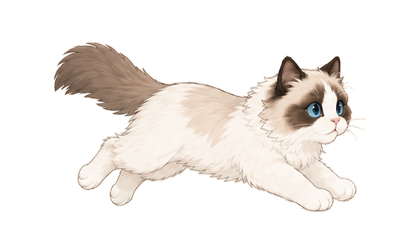
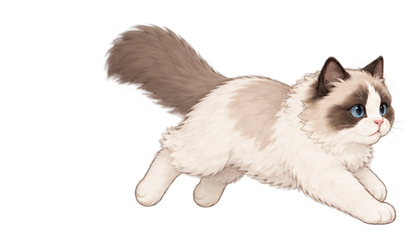
feat: personalize Fanqie sprites and add resting states

diff --git a/assets/preview.html b/assets/preview.html
@@ -1,0 +1,67 @@
+<!doctype html>
+<html lang="zh-CN">
+<meta charset="utf-8">
+<meta name="viewport" content="width=device-width, initial-scale=1">
+<title>番茄 · Ragdoll Progress</title>
+<link rel="stylesheet" href="../src/content.css">
+<style>
+  * { box-sizing: border-box; }
+  body { margin: 0; padding: 64px 28px; background: #f5f2ec; color: #40372f; font: 16px/1.6 system-ui, sans-serif; }
+  main { max-width: 960px; margin: auto; }
+  h1 { font-size: 32px; margin: 0 0 8px; }
+  p { color: #74685c; margin: 0 0 32px; }
+  .states { display: grid; grid-template-columns: repeat(3, 1fr); gap: 20px; }
+  .card { border: 1px solid #dfd7cc; background: #fffdf9; border-radius: 20px; padding: 24px; }
+  .card.dark { background: #282625; color: #f5eee4; border-color: #282625; }
+  h2 { font-size: 15px; font-weight: 500; margin: 0; }
+  .stage { height: 160px; display: grid; align-items: end; padding-bottom: 24px; }
+  .track { position: relative; height: 4px; background: #d7b8a0; border-radius: 4px; }
+  .dcb-cat-progress { --dcb-cat-sprite: url('../assets/cat-sprite.png'); --dcb-progress: .5; filter: none; }
+  .large { margin-top: 24px; }
+  .large .stage { height: 220px; }
+  .large .dcb-cat-progress { --dcb-runner-width: 252px; --dcb-runner-height: 141px; }
+  .large .track { margin: 0 120px; }
+  .controls { display: flex; align-items: center; gap: 16px; margin-top: 24px; }
+  button { color: inherit; background: #eee2d5; border: 0; border-radius: 30px; padding: 10px 20px; font: inherit; cursor: pointer; }
+  input { flex: 1; accent-color: #9a6e51; min-width: 0; }
+  small { color: #8c7f71; display: block; margin-top: 24px; }
+  @media(max-width: 650px) { .states { grid-template-columns: 1fr; } .large .track { margin: 0 112px; } }
+</style>
+<main>
+  <h1>番茄，陪你看到最后。</h1>
+  <p>播放时小跑，暂停时趴好，结束后安心睡觉。</p>
+  <div class="states">
+    <section class="card"><h2>播放 · 小跑</h2><div class="stage"><div class="track"><div class="dcb-cat-progress"><div class="dcb-runner"></div></div></div></div></section>
+    <section class="card"><h2>暂停 · 趴卧</h2><div class="stage"><div class="track"><div class="dcb-cat-progress dcb-paused"><div class="dcb-runner"></div></div></div></div></section>
+    <section class="card dark"><h2>结束 · 睡觉</h2><div class="stage"><div class="track"><div class="dcb-cat-progress dcb-ended"><div class="dcb-runner"></div></div></div></div></section>
+  </div>
+  <section class="card large">
+    <h2>放大看看</h2>
+    <div class="stage"><div class="track"><div id="interactive" class="dcb-cat-progress"><div class="dcb-runner"></div></div></div></div>
+    <div class="controls"><button id="toggle" type="button" aria-pressed="false">暂停</button><input id="progress" type="range" min="0" max="100" value="50" aria-label="播放进度"><button id="end" type="button">看完啦</button></div>
+  </section>
+  <small>上排为扩展实际尺寸，下方为三倍预览。系统开启“减少动态效果”时，小猫会安静趴着。</small>
+</main>
+<script>
+  const cat = document.querySelector('#interactive');
+  const toggle = document.querySelector('#toggle');
+  const progress = document.querySelector('#progress');
+  toggle.onclick = () => {
+    cat.classList.remove('dcb-ended');
+    const paused = cat.classList.toggle('dcb-paused');
+    toggle.textContent = paused ? '继续播放' : '暂停';
+    toggle.setAttribute('aria-pressed', String(paused));
+  };
+  progress.oninput = () => {
+    cat.style.setProperty('--dcb-progress', progress.value / 100);
+    cat.classList.remove('dcb-ended');
+  };
+  document.querySelector('#end').onclick = () => {
+    cat.classList.add('dcb-ended', 'dcb-paused');
+    cat.style.setProperty('--dcb-progress', 1);
+    progress.value = 100;
+    toggle.textContent = '继续播放';
+    toggle.setAttribute('aria-pressed', 'true');
+  };
+</script>
+</html>

diff --git a/tests/content.browser.js b/tests/content.browser.js
@@ -58,6 +58,7 @@
   }
   const layer = (target = fixture) => target.progressContainer.querySelector('.dcb-cat-progress');
   const progress = () => Number(layer().style.getPropertyValue('--dcb-progress'));
+  const runnerStyle = () => getComputedStyle(layer().querySelector('.dcb-runner'));
   const fillTo = (index, ratio, target = fixture) => {
     target.fills[index].style.transform = `scaleX(${ratio})`;
   };
@@ -124,6 +125,8 @@
     await tick();
     equal(frames.size, 0);
     assert(layer().classList.contains('dcb-paused'), 'pause class missing');
+    equal(runnerStyle().animationName, 'none');
+    equal(runnerStyle().backgroundPositionX, '-504px');
     await tick();
     equal(frames.size, 0);
   });
@@ -136,10 +139,14 @@
     await tick();
     equal(frames.size, 1);
     assert(!layer().classList.contains('dcb-paused'), 'pause class remained');
+    equal(runnerStyle().animationName, 'dcb-run');
+    equal(runnerStyle().backgroundSize, '800% 100%');
     fixture.state.paused = true;
     fixture.video.dispatchEvent(new Event('pause'));
     await tick();
     equal(frames.size, 0);
+    equal(runnerStyle().animationName, 'none');
+    equal(runnerStyle().backgroundPositionX, '-504px');
   });
   await test('paused native slider mutations update without media events', async () => {
     fixture = makeTarget();
@@ -184,6 +191,13 @@
     equal(progress(), 1);
     equal(frames.size, 0);
     assert(layer().classList.contains('dcb-ended'), 'ended class missing');
+    equal(runnerStyle().animationName, 'none');
+    equal(runnerStyle().backgroundPositionX, '-588px');
+    // Real ended videos can be paused as well; the sleeping pose must win.
+    fixture.state.paused = true;
+    fixture.video.dispatchEvent(new Event('pause'));
+    await tick();
+    equal(runnerStyle().backgroundPositionX, '-588px');
   });
   await test('reinstalling the same target preserves the layer and restoration', async () => {
     fixture = makeTarget();

diff --git a/src/content.css b/src/content.css
@@ -56,15 +56,19 @@
   background-image: var(--dcb-cat-sprite);
   background-repeat: no-repeat;
   background-position: 0 50%;
-  background-size: 600% 100%;
+  background-size: 800% 100%;
   animation:
-    dcb-run 720ms steps(6) infinite,
-    dcb-bob 720ms ease-in-out infinite;
+    dcb-run 840ms steps(6) infinite;
 }
 
 .dcb-paused .dcb-runner,
 .dcb-ended .dcb-runner {
-  animation-play-state: paused;
+  animation: none;
+  background-position: calc(var(--dcb-runner-width) * -6) 50%;
+}
+
+.dcb-ended .dcb-runner {
+  background-position: calc(var(--dcb-runner-width) * -7) 50%;
 }
 
 @keyframes dcb-run {
@@ -73,13 +77,9 @@
   }
 }
 
-@keyframes dcb-bob {
-  0%,
-  100% {
-    transform: translateX(-50%) translateY(0) rotate(-1deg);
-  }
-
-  50% {
-    transform: translateX(-50%) translateY(-2px) rotate(1deg);
+@media (prefers-reduced-motion: reduce) {
+  .dcb-runner {
+    animation: none;
+    background-position: calc(var(--dcb-runner-width) * -6) 50%;
   }
 }

diff --git a/assets/ARTWORK.md b/assets/ARTWORK.md
@@ -1,0 +1,34 @@
+# Fanqie artwork
+
+Generated with the built-in imagegen tool, using the owner's cat photos
+`IMG_4427.jpeg` and `IMG_4442.jpeg` as identity references and the previous
+`preview.png` as the illustration style reference. Source photos are not
+distributed with this repository.
+
+`fanqie-atlas.png` is the original transparent 4-column, 2-row generated atlas.
+`cat-sprite.png` packs its eight poses in one horizontal row of 420 × 235 cells:
+six running frames, resting loaf, curled sleeping pose. The extension displays
+each cell at 84 × 47 CSS pixels. Running takes 840 ms per cycle.
+
+`preview.png` and `ragdoll-progress.gif` are derived from the same frames.
+The GIF uses six 140 ms frames. `preview.html` demonstrates the production CSS
+on light and dark backgrounds, at actual size and 3× size.
+
+To rebuild, make the optional `sharp` Node package available and run
+`node scripts/build-sprites.cjs`. The extension itself has no runtime dependencies.
+The build crops each cell to its primary silhouette, uses one common scale,
+aligns the face side and ground contact, and packs the PNG and GIF assets.
+
+## Generation prompt
+
+Use case: identity-preserve.
+Asset type: production sprite atlas for a tiny browser video-progress companion.
+Input images: images 1 and 2 are identity references of the real cat Fanqie; image 3 is the existing illustration style reference. Redraw the character to match this specific real adult ragdoll, preserving the soft hand-painted illustration style.
+Deliver one transparent RGBA PNG, landscape 2:1, arranged as EXACTLY 4 columns by 2 rows of equal square cells, with one full-body cat per cell. No text, grid lines, shadows on a floor, scenery, extra objects or background. Actual alpha transparency, no checkerboard painted into the image.
+Character: fluffy adult seal bicolor ragdoll, fuller rounded cheeks, generous white chest ruff, creamy white body with muted taupe saddle, very plush broad dark brown tail, dark ears, pink nose, natural subdued blue eyes with dark pupils (not huge anime eyes). Faithfully preserve the forehead's pointed white blaze widening onto the nose and the slightly asymmetric dark brown eye masks from the photos. Same head size, facial markings, body volume, camera angle, and character identity throughout all eight cells.
+Composition: every cat faces RIGHT in a side/three-quarter view, eyes visible. Each square cell has ample transparent padding. Full tail and all paws inside cell, constant character scale, same floor baseline approximately at 78% of each cell's height; max horizontal footprint 86% of cell width. Maintain consistent head anchor across first 6 frames. Artwork should read clearly at 84px wide: simplified fur tufts, clear color masses, delicate muted brown outline; no heavy dark outlines.
+Read order left to right, top then bottom.
+Cells 1–6: six consecutive distinct poses of ONE smooth gentle running cycle, ordered contact, down/compression, push-off, flight/extension, opposite contact, recovery. Keep body and head stable with only subtle bounce, coherent alternating fore/hind legs, tail follows softly. It's a soft padded trot/bound, not an extreme leap; avoid body stretching or morphing.
+Cell 7: same cat peacefully lying in a loaf, front paws tucked, head upright looking right, tail wrapped alongside, eyes relaxed and open.
+Cell 8: same cat curled up asleep, head resting on forepaws on the right, eyes closed, plush tail curled around body.
+This is an integrated replacement of the existing animation: exact 4x2 regular layout, eight cleanly separated full cats, honest alpha transparency, stable scale and likeness are critical.

diff --git a/README.md b/README.md
@@ -2,9 +2,17 @@
 
 A small Chrome extension that keeps native video progress bars intact and adds a cute running ragdoll cat above the scrubber.
 
+The cat is inspired by Fanqie: a fluffy white ruff, a pointed white nose blaze,
+and a plush brown tail. It runs during playback, rests with tucked paws when
+paused, and curls up asleep when the video ends. Reduced-motion preferences
+replace running with the resting pose.
+
 <p align="center">
   <img src="assets/ragdoll-progress.gif" alt="Running ragdoll cat animation" width="420">
 </p>
+
+Open [the interactive preview](assets/preview.html) locally to see all three states
+at their actual display size and try the enlarged preview.
 
 ## Supported Platforms
 
